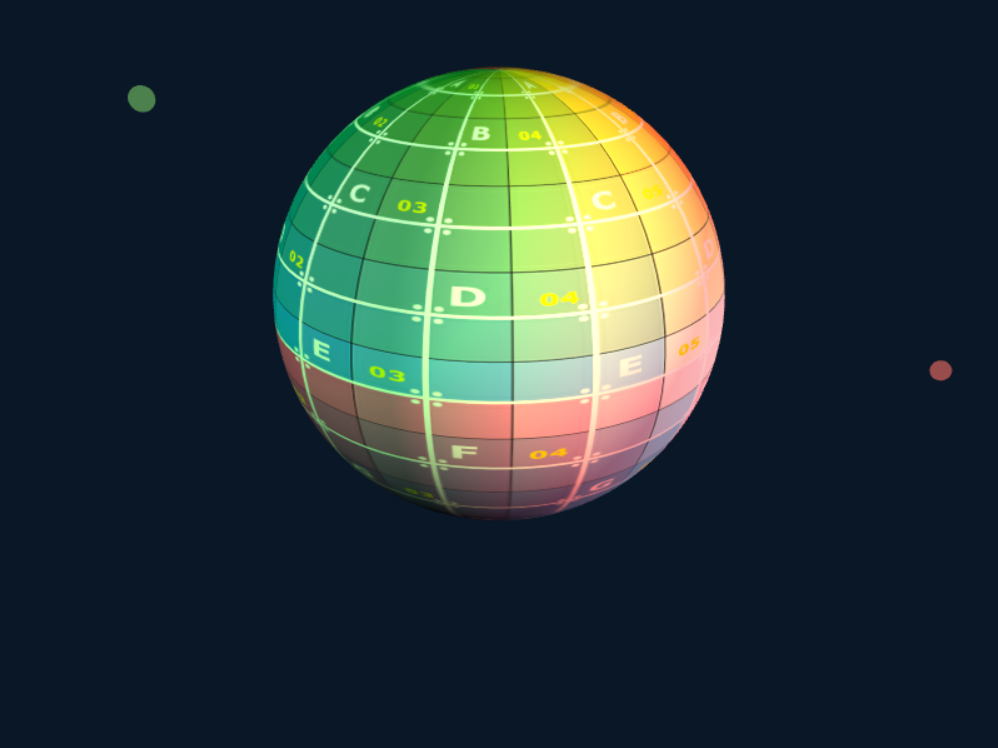
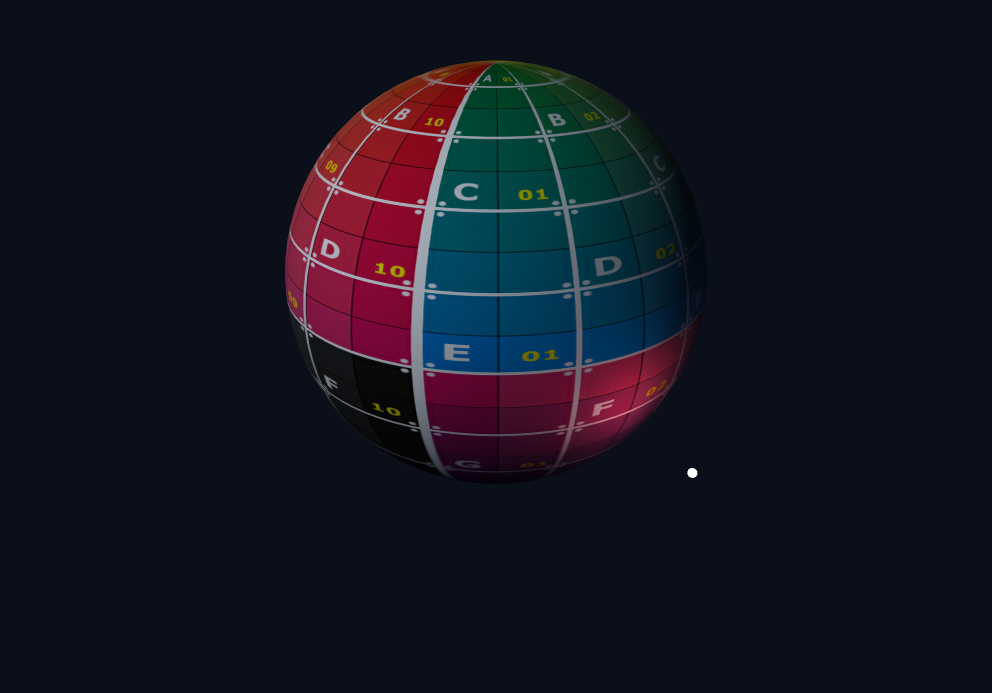
screenshot + minor #8

diff --git a/scene.cpp b/scene.cpp
@@ -101,7 +101,7 @@ struct PointLight
 #define DIRECT_LIGHTS_COUNT 1
 #define POINT_LIGHTS_COUNT  2
 
-AmbientLight sAmbientLight{ XMFLOAT4(0.04f, 0.08f, 0.14f, 1.0f) };
+AmbientLight sAmbientLight{ XMFLOAT4(0.04f, 0.06f, 0.10f, 1.0f) };
 
 std::array<DirectLight, DIRECT_LIGHTS_COUNT> sDirectLights =
 {
